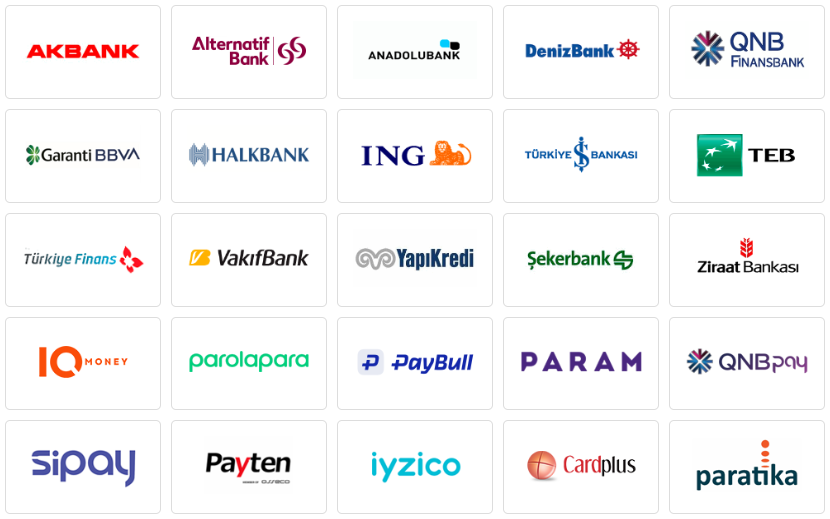
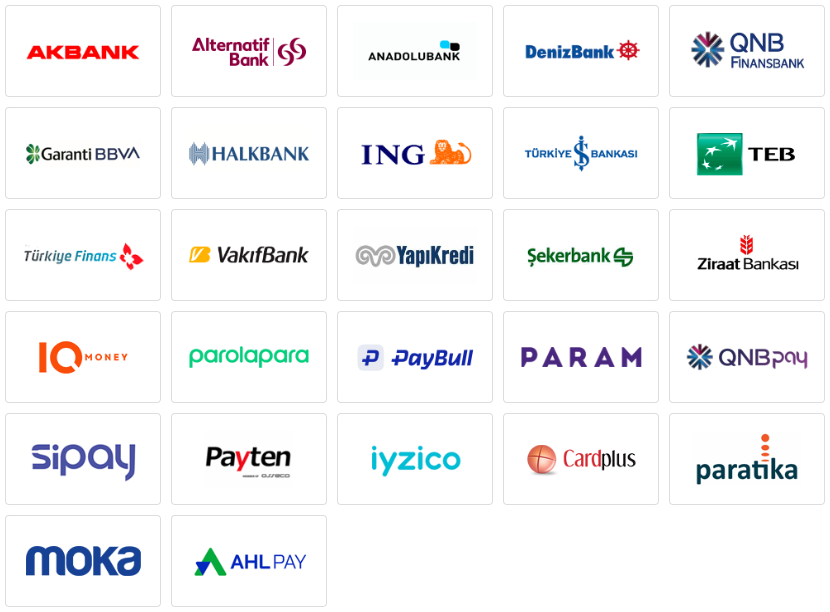
readme update

diff --git a/README.md b/README.md
@@ -62,6 +62,7 @@ Dotnet CLI
 | Parolapara | ✔ | ✔ | ✔ | ✔ |
 | IQmoney | ✔ | ✔ | ✔ | ✔ |
 | Ahlpay | ✔ | ✔ | ✔ | ✔ |
+| Moka | ✔ | ✔ | ✔ | ✔ |
 
 
 
@@ -112,6 +113,7 @@ Sanal POS bazlı alan açıklamaları:
 | Parolapara | CP.VPOS.Services.BankService.Parolapara | Üye İşyeri ID | Uygulama Anahtarı | Uygulama Parolası | Üye İşyeri Anahtarı |
 | IQmoney | CP.VPOS.Services.BankService.IQmoney | Üye İşyeri ID | Uygulama Anahtarı | Uygulama Parolası | Üye İşyeri Anahtarı |
 | Ahlpay | CP.VPOS.Services.BankService.Ahlpay | member Id | Api Kullanıcısı Adı | Api Kullanıcısı Şifre | Üye işyeri API Key (hashPassword) |
+| Moka | CP.VPOS.Services.BankService.Moka | Bayi Kodu | Api Kullanıcısı Adı | Api Kullanıcısı Şifre | |
 
 ## 3D'siz Direkt Satış İşlemi
 
